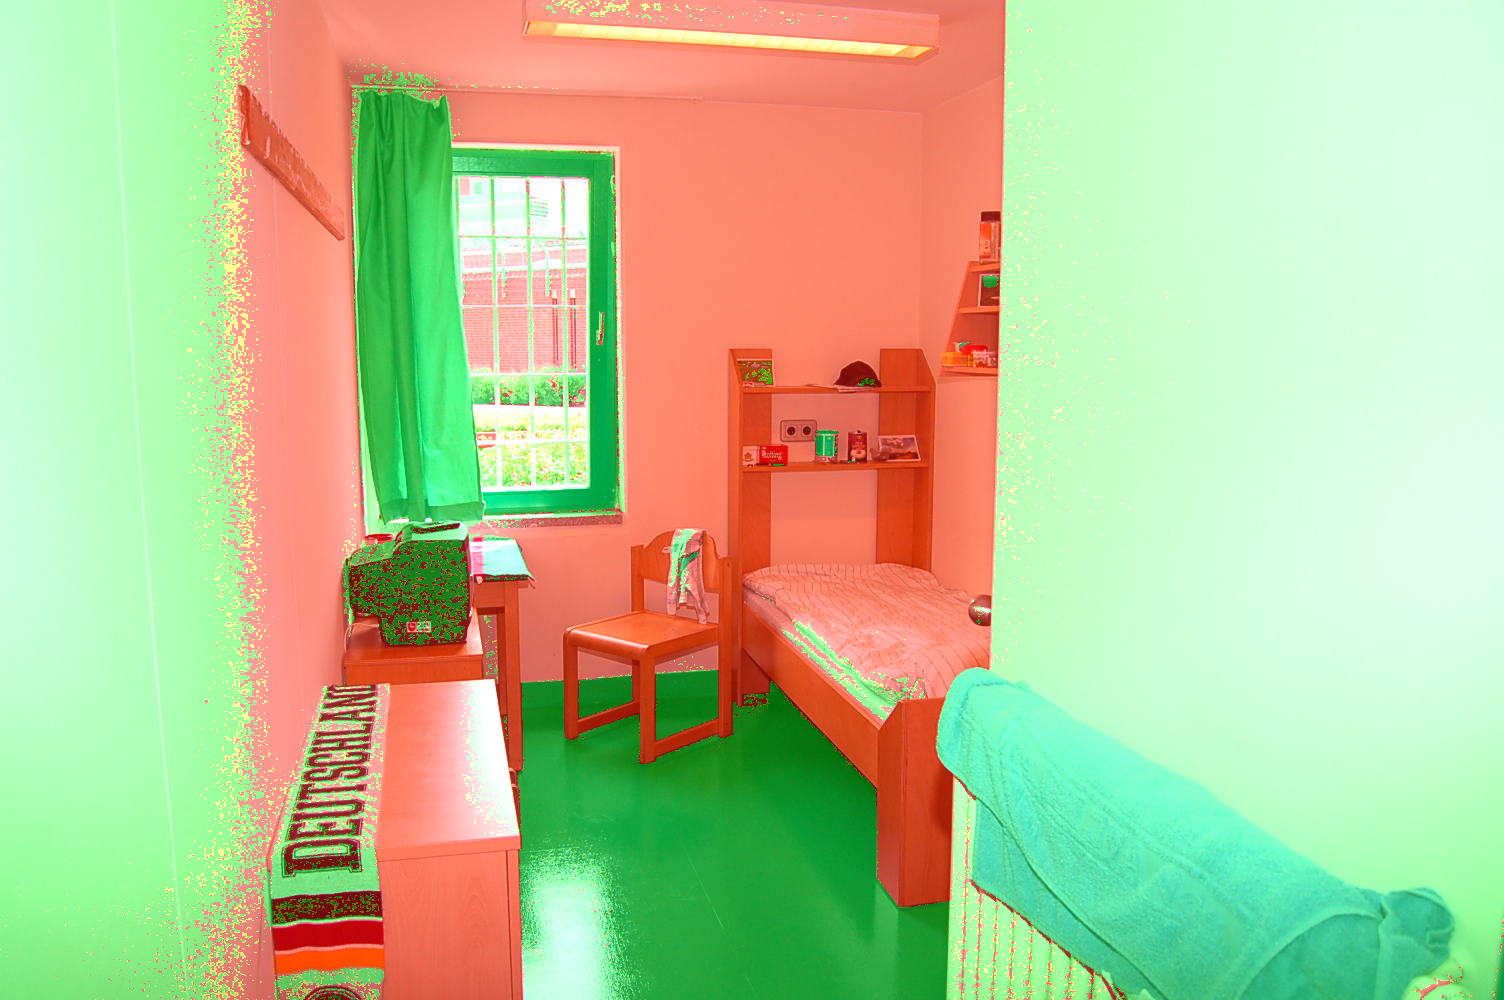
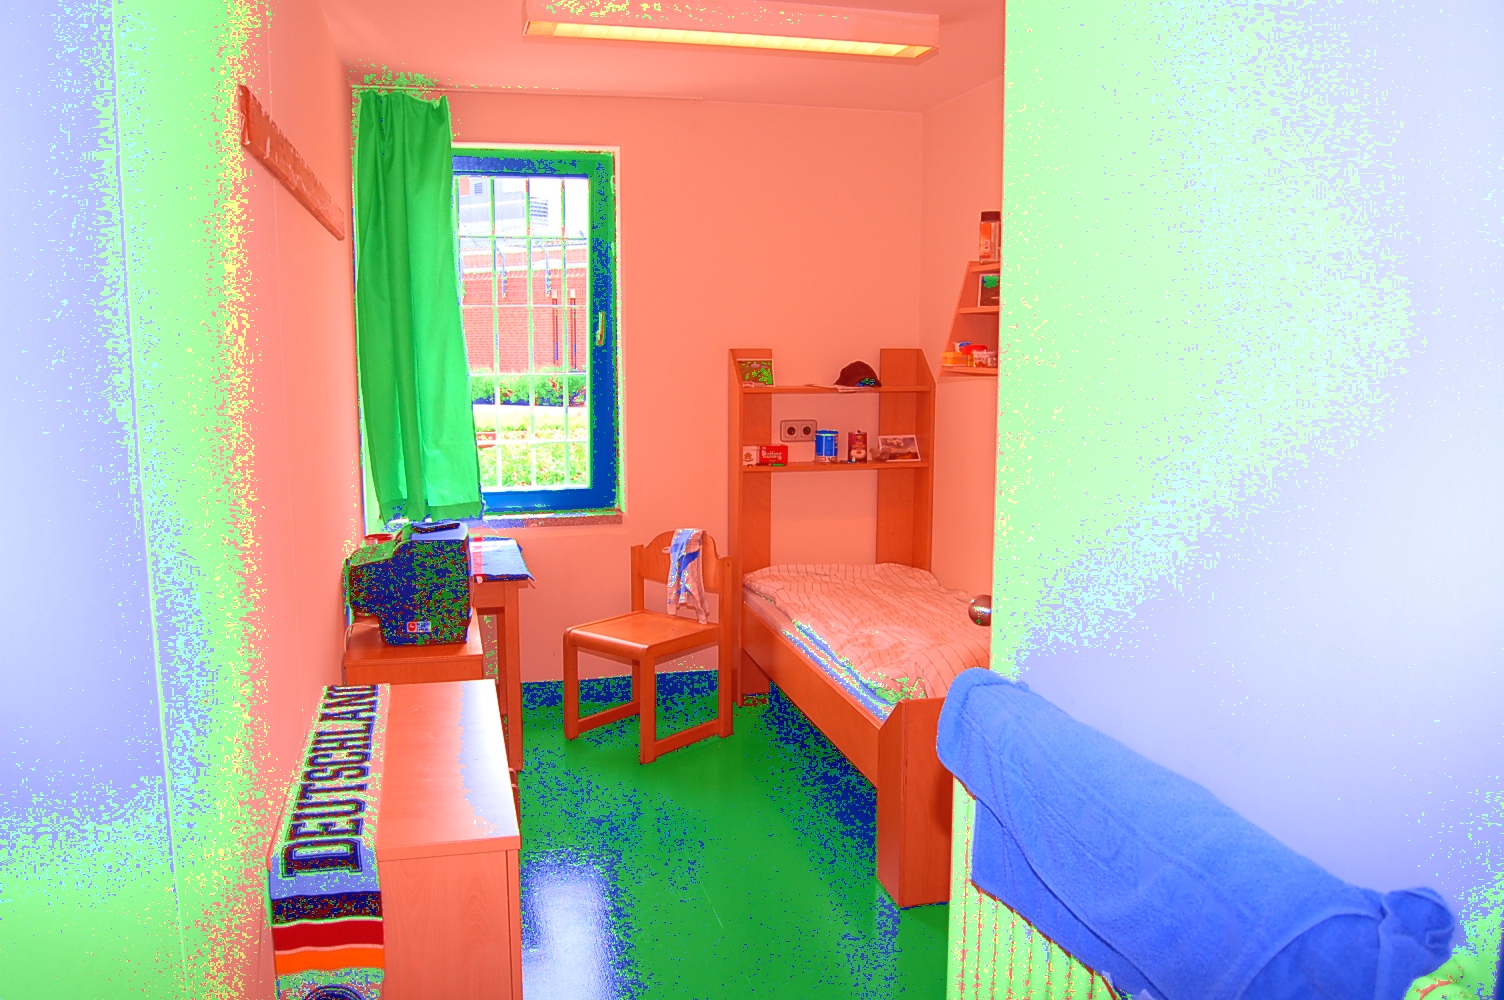
More accurate saturation function & more in desc
images for comparison (previous generation Vs. current generation)

diff --git a/src/procedural_texture.py b/src/procedural_texture.py
@@ -101,9 +101,9 @@ class Canvas:
         for y in range(self.size[1]):
             for x in range(self.size[0]):
                 pixel = list(self.canvas.getpixel((x, y)))
-                sorted_pixel = pixel.copy()[:2]
+                sorted_pixel = pixel.copy()[:3]
                 sorted_pixel.sort(reverse=True)
-                for i in range(2):
+                for i in range(3):
                     if pixel[i] == sorted_pixel[0]:
                         if 0 <= pixel[i] + level <= 255:
                             pixel[i] += level
@@ -119,7 +119,7 @@ class Canvas:
             for x in range(self.size[0]):
                 pixel = list(self.canvas.getpixel((x, y)))
                 copied_pixel = pixel.copy()
-                sorted_pixel = pixel.copy()[:2]
+                sorted_pixel = pixel.copy()[:3]
                 pixel_to_change = {}
                 sorted_pixel.sort(reverse=True)
                 for val in sorted_pixel:
@@ -133,7 +133,7 @@ class Canvas:
                         pixel_to_change.update({val: 0})
                     else:
                         pixel_to_change.update({val: 255})
-                for i in range(2):
+                for i in range(3):
                     pixel[i] = pixel_to_change[pixel[i]]
                 self.canvas.putpixel((x, y), tuple(pixel))
 
